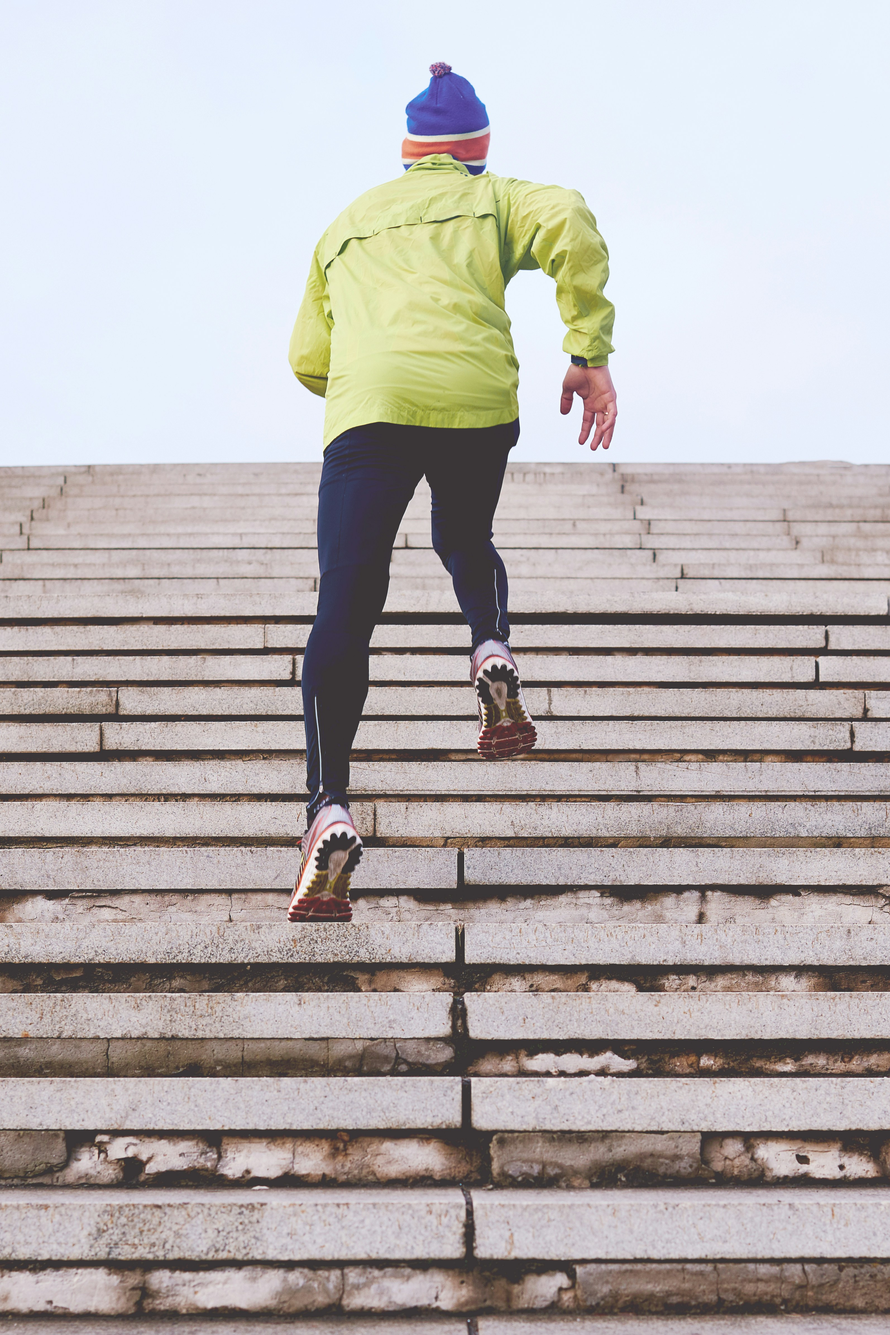
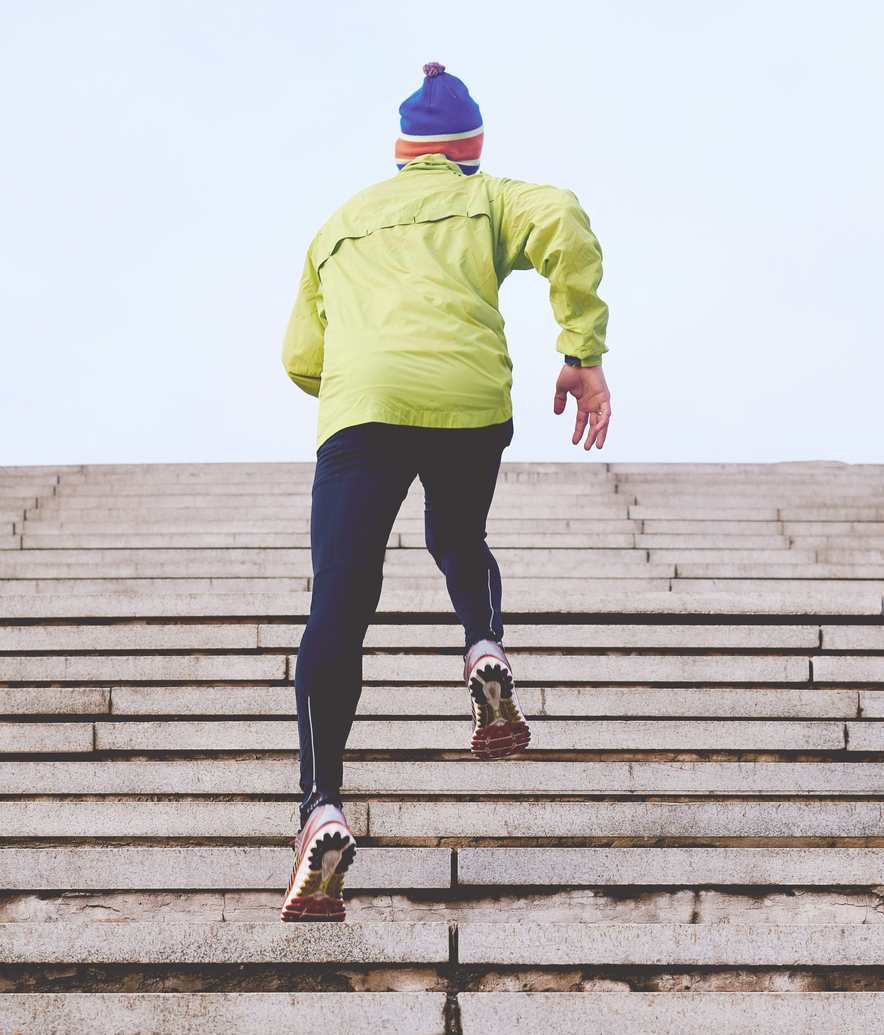
adjust feature images

diff --git a/css/components/feature-card.css b/css/components/feature-card.css
@@ -28,9 +28,11 @@
 .feature__image-1 {
     max-width: 464px;
     width: 100%;
+    height: auto;
     border-radius: 22px;
-    object-fit: cover;
+    object-fit: contain;
 }
+
 
 
     /* Card 2*/

diff --git a/css/blocks/hero.css b/css/blocks/hero.css
@@ -3,7 +3,7 @@
 }
 
 .hero__headings {
-    width: 50%;
+    width: 45%;
 }
 
 .hero__slider {
